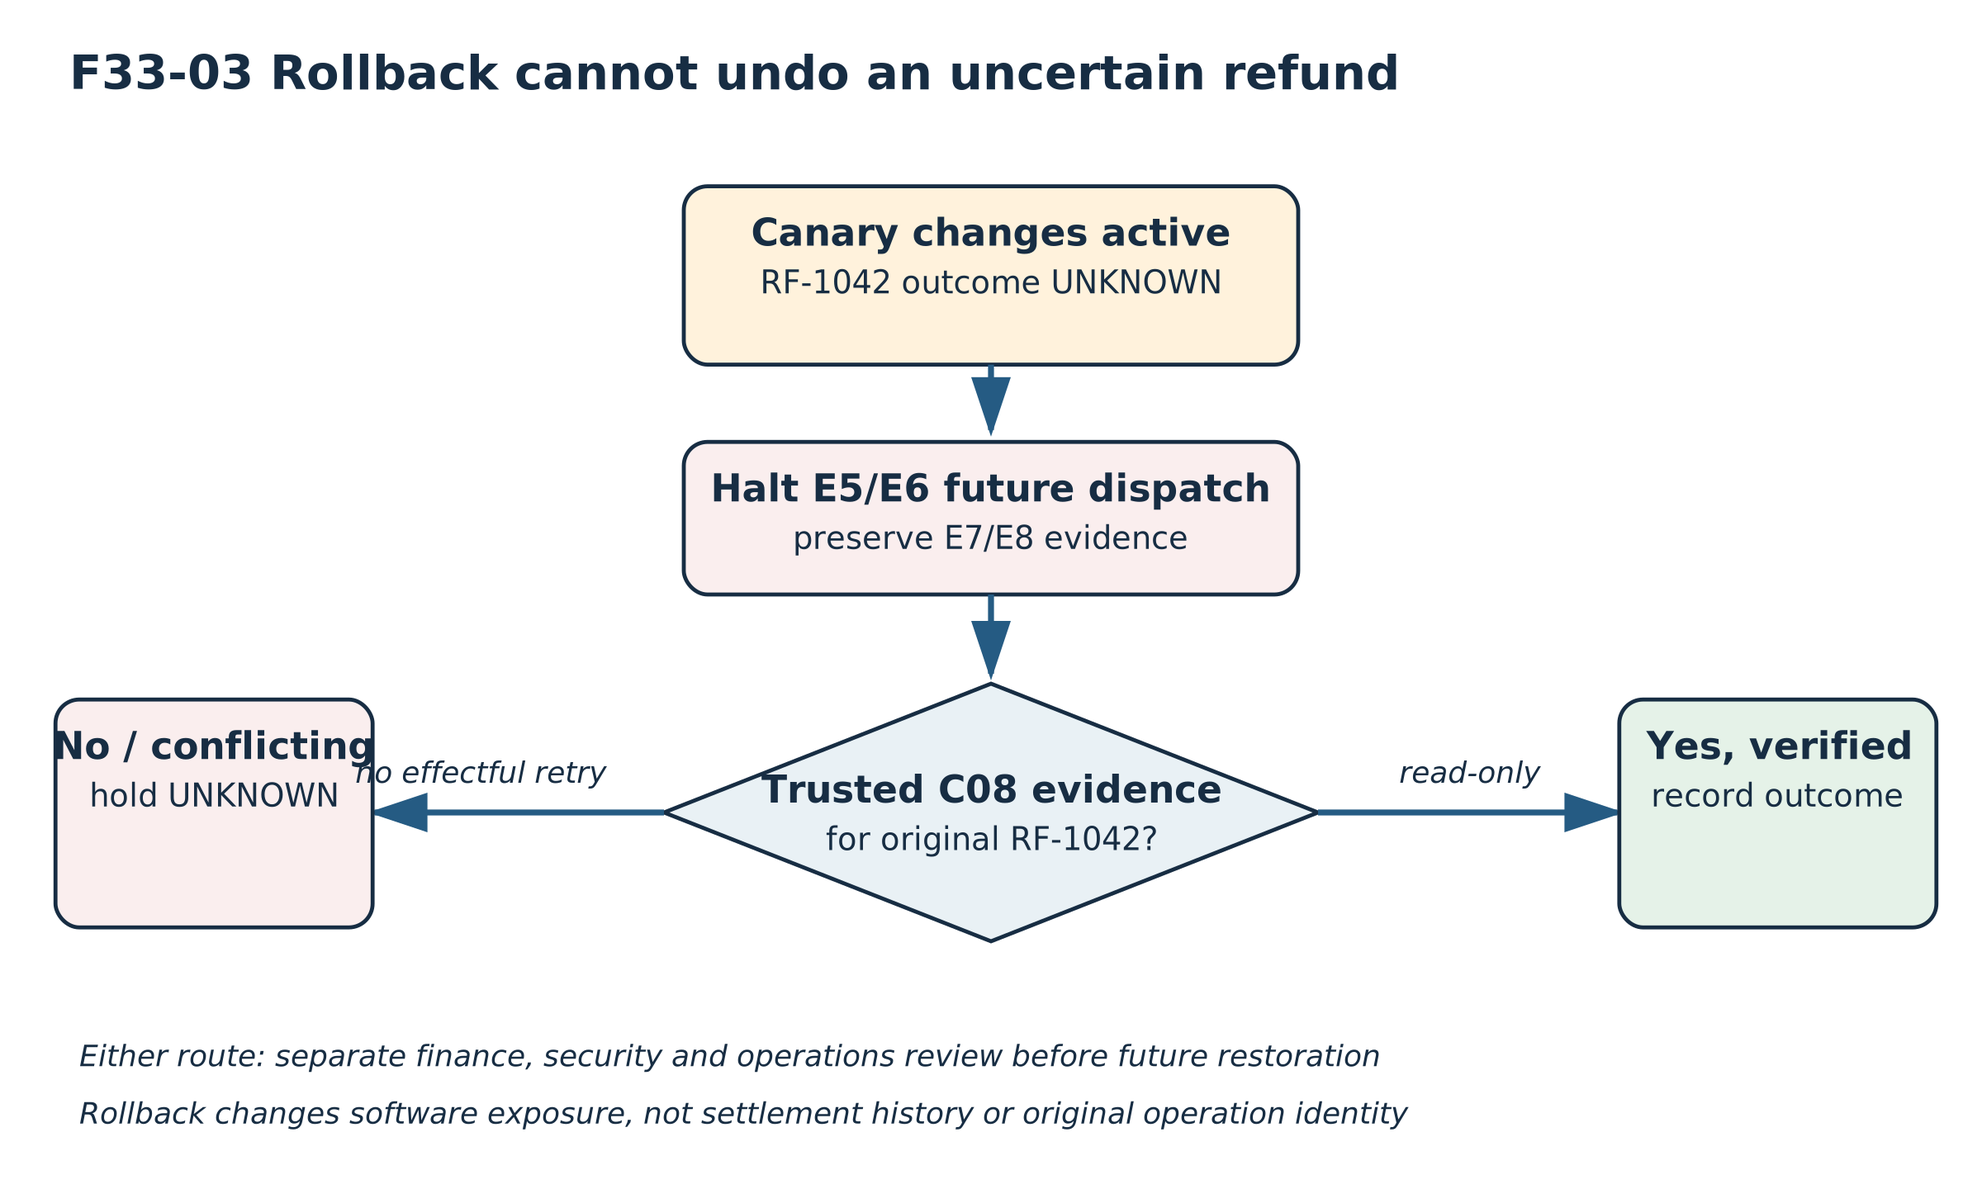
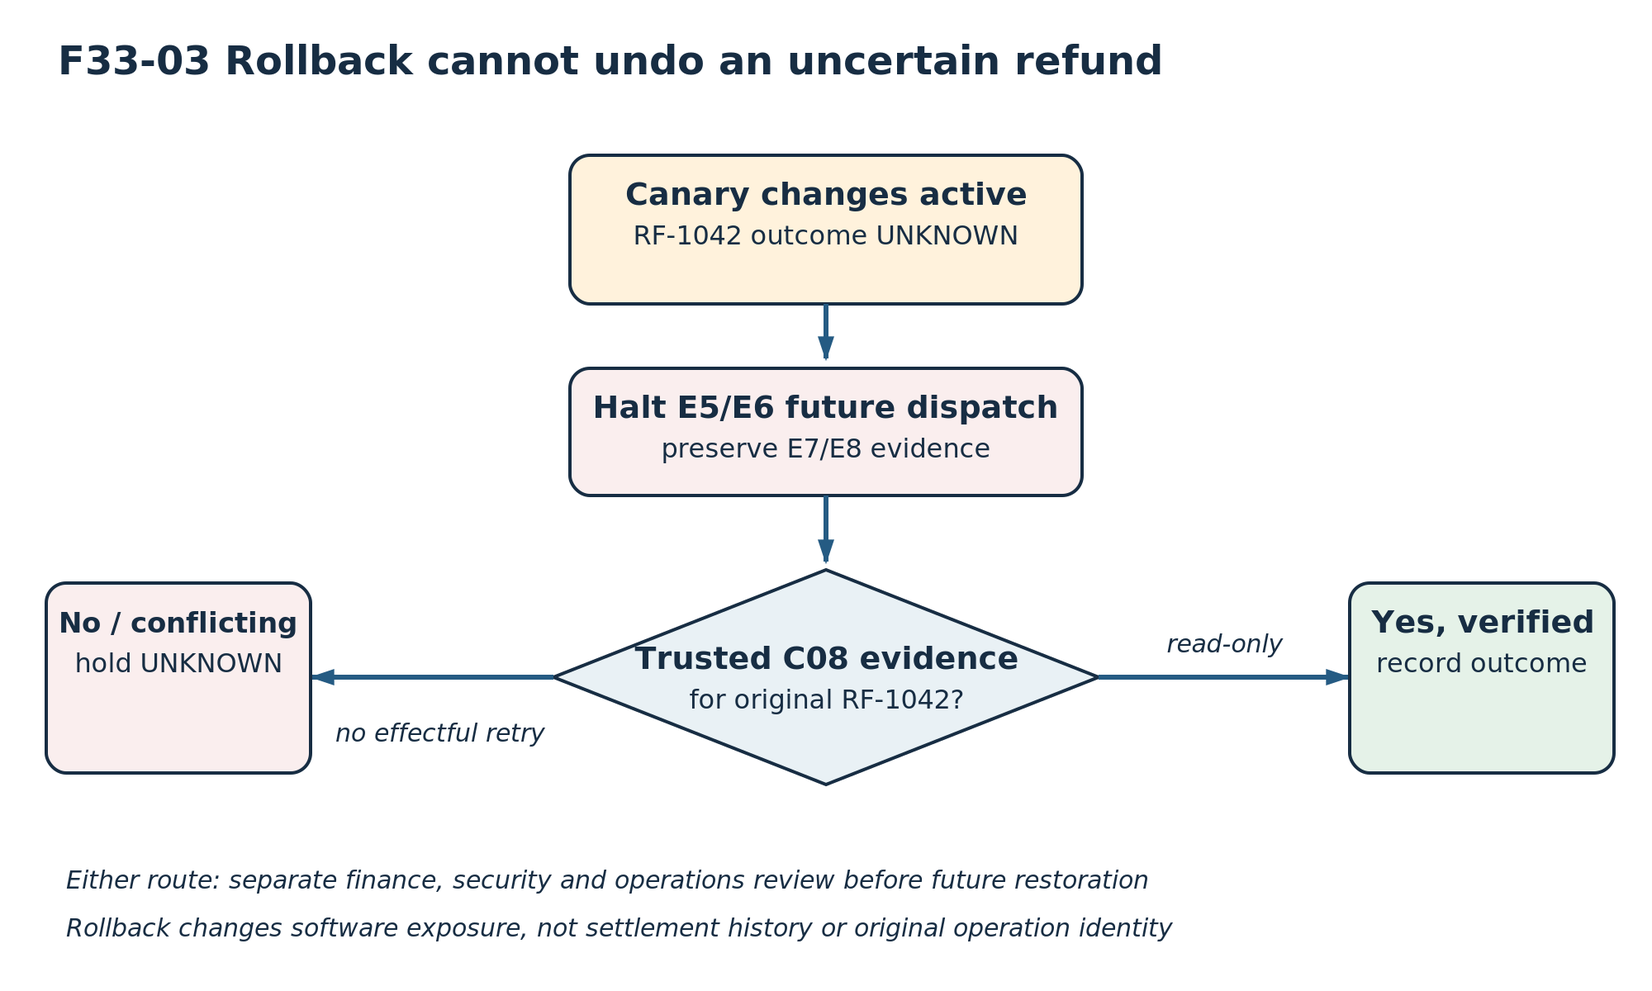
docs: finalize book wording and editorial cleanup (#56)

diff --git a/manuscript/frontmatter/how-to-use-this-book.md b/manuscript/frontmatter/how-to-use-this-book.md
@@ -11,7 +11,7 @@ The book is a continuous engineering argument and a practical reference. Read Pa
 
 **The architecture notation.** Later chapters introduce nine logical enterprise responsibilities (E1–E9) and nine cross-domain contracts (C01–C09). The responsibilities say what must be done; the contracts define handoff obligations, data, controls, and evidence. Chapter 8 §§8.3–8.4 explains both; the Appendix supplies a reader-oriented C01–C09 reference. The book gives readable responsibility and contract definitions in Chapter 8 and the Appendix; no external architecture file is required to follow the discussion. Chapter 35 provides the reader-facing schemas and reference artifacts needed to apply the contracts. The compact appendix map is a navigation aid, not an implementation schema. Identifiers support traceability, not permission or proof. They do not imply nine separate services or require multiple agents.
 
-**Reading each chapter independently.** The first substantive appearance of Design A (deterministic), Design B (bounded AI advice and independent review), or Design C (optional bounded agent investigation) should say what changes and what does not: trusted execution remains independent. E1–E9 are responsibilities, C01–C09 are contracts; the compact definitions in Chapter 8 and the architectural appendix are navigational, not new authorities. Less-common acronyms are expanded locally on first use; code names identify a repository-relative module and a corresponding test rather than an undocumented implementation promise.
+**Reading each chapter independently.** Designs A, B, and C represent different allocations of investigation and decision-making responsibility. Design A is deterministic; Design B uses bounded AI advice with independent review; and Design C optionally introduces bounded agent investigation. Across all three, consequential execution remains independently controlled. E1–E9 are responsibilities, C01–C09 are contracts; the compact definitions in Chapter 8 and the architectural appendix are navigational, not new authorities. Less-common acronyms are expanded locally on first use; code names identify a repository-relative module and a corresponding test rather than an undocumented implementation promise.
 
 **The case and exercises.** The $500 refund is an illustrative running case, not a provider-specific production design. Early exercises ask readers to explain requirements and tradeoffs. Later work asks for schemas, code, policy checks, tests, incident evidence, and defended release decisions. Where a contract depends on a provider, verify its actual guarantees.
 
@@ -20,7 +20,7 @@ The book is a continuous engineering argument and a practical reference. Read Pa
 **Reader pathways.** Developing engineers should complete the exercises in sequence. Architects should focus on responsibility boundaries and alternative decisions. Security and privacy reviewers should trace authority, data use, and human recourse. Operations teams should emphasize unknown outcomes, failure injection, reconciliation, serviceability, and cost of ownership. Business leaders should ask what measurable value is created and which residual risks are explicitly accepted.
 
 
-**Professional review perspectives.** Where an architecture decision warrants scrutiny, the book asks how an implementing engineer, enterprise architect, security/assurance reviewer, SRE/operations owner, and business owner would challenge its claims. The relevant perspectives vary by decision; they are not new E-domains, a prescribed review board, or a substitute for formal authority. Student exercises train readers to perform these professional reviews, while teaching-quality evaluations remain outside the reader-facing method.
+**Professional review perspectives.** Where an architecture decision warrants scrutiny, the book asks how an implementing engineer, enterprise architect, security/assurance reviewer, SRE/operations owner, and business owner would challenge its claims. The relevant perspectives vary by decision; they are not new E-domains, a prescribed review board, or a substitute for formal authority. The exercises develop the ability to challenge engineering decisions from these complementary professional perspectives.
 
 ## The companion reference implementation
 

diff --git a/manuscript/backmatter/appendices.md b/manuscript/backmatter/appendices.md
@@ -36,7 +36,7 @@ The reference architecture separates logical responsibilities from trust boundar
 
 ## Appendix B — Companion implementation guide
 
-The authoritative companion tree is `examples/refund-reference-system/` in the project repository, https://github.com/etis-framework/etis-agentic-ai-book. Start with `examples/refund-reference-system/README.md`, then the guided source-and-negative-test lab in `LEARNING_PATH.md`, and the implementation/limitation crosswalk in `IMPLEMENTATION_EVIDENCE_MAP.md`. Paths in the tables are **relative to that companion tree**, not to this manuscript file. These are repository-relative file identifiers suitable for this printed edition; a fixed public release tag is provided.
+The authoritative companion tree is `examples/refund-reference-system/` in the project repository, https://github.com/etis-framework/etis-agentic-ai-book. Start with `examples/refund-reference-system/README.md`, then the guided source-and-negative-test lab in `LEARNING_PATH.md`, and the implementation/limitation crosswalk in `IMPLEMENTATION_EVIDENCE_MAP.md`. All paths in the following tables are relative to `examples/refund-reference-system/` in the official ETIS book repository. For reproducible exercises, consult the repository's edition-specific release information rather than assuming that the latest development revision matches the printed examples.
 
 **Progressive reference implementation (Chapters 22–27)**
 
@@ -123,7 +123,7 @@ An absent signal is not evidence of no effect. Local hash checks are not protect
 
 **Lifecycle investment and retirement (Chapter 34).** Cost per acceptable completed workflow includes review, assurance, monitoring, recovery, staffing, residual exposure and exit. The hypothetical comparison in Table 34.2 is not companion telemetry or a prediction of deployed benefits. Missing E5 enforcement or authoritative E8 evidence is a hard gate, not a risk price. Figure 34.3 and Table 34.4 prescribe accountable decisions, not an autonomous deployment controller.
 
-**Release authorization (Chapter 33).** A passing local regression is not release approval. Tables 33.1–33.3 identify proposed manifest fields, release-stage gates and exact fixture evidence, separated from external implementation and production proof. Figures 33.1–33.3 distinguish candidate evidence from E5 authority and software rollback from irreversible/uncertain provider effects. Runbook 33-A is a manuscript-local operating procedure, not software.
+**Release authorization (Chapter 33).** A passing local regression is not release approval. Tables 33.1–33.3 identify proposed manifest fields, release-stage gates and exact fixture evidence, separated from external implementation and production proof. Figures 33.1–33.3 distinguish candidate evidence from E5 authority and software rollback from irreversible/uncertain provider effects. Runbook 33-A provides an illustrative operating procedure; the companion implementation does not automate it.
 
 
 **Chapter 35 — Contract lookup and executable falsifiers (no new build)**

diff --git a/manuscript/part-05-reliability-security/ch31-verification-evaluation-and-evidence/index.md b/manuscript/part-05-reliability-security/ch31-verification-evaluation-and-evidence/index.md
@@ -99,7 +99,7 @@ The release record must specify artifact version, test results and exceptions, n
 
 Start at `examples/refund-reference-system/assurance/README.md`, then run `python3 -m unittest discover -s examples/refund-reference-system/assurance -p 'test_*.py' -v` to execute `assurance/test_collect.py`. The companion `assurance/collect.py` registry identifies exact runnable tests in `security/test_adversarial_cases.py` (valid-token E5 denial), `reliability/test_recovery_cases.py` (missing/wrong proof), `build4/test_provider.py` (single operation and no blind replay), `build5/test_coordination.py` (local epochs), and `operations/test_incident.py` (read-only incidents). Run its example command from the repository root to produce a local JSON evidence bundle. Evidence metadata and this chapter's falsifier matrix point to source methods, not to invented generalized guarantees.
 
-**Professional review perspectives.** The implementing engineer audits registries, test names and non-effect assertions. The enterprise architect maps every unverified E5/E9 control to its actual deployment boundary. A falsification exercise establishes precisely which claim fails and which conclusions remain unsupported. The security reviewer stages the valid-token compromised-investigator attempt and demands independent grant custody evidence. The SRE/operator evaluates collector loss, ambiguous provider outcomes and restoration rehearsals. The business owner decides what unresolved refund exposure is acceptable and who is empowered to stop rollout. These are reader questions, not an assertion of independent publication certification.
+**Professional review perspectives.** The implementing engineer audits registries, test names and non-effect assertions. The enterprise architect maps every unverified E5/E9 control to its actual deployment boundary. A falsification exercise establishes precisely which claim fails and which conclusions remain unsupported. The security reviewer stages the valid-token compromised-investigator attempt and demands independent grant custody evidence. The SRE/operator evaluates collector loss, ambiguous provider outcomes and restoration rehearsals. The business owner decides what unresolved refund exposure is acceptable and who is empowered to stop rollout. These professional reviews help assess the strength and limitations of the available evidence; they do not constitute independent production certification.
 
 **Limitations:** Tests run against local files and a simulated provider. Build 5 E2 epochs are not enforced by Build 4 E5. The collector measures subprocess outcomes, not real payment settlement, independent production identity, protected E9 evidence, complete model drift, red-team coverage or operator competence. A replayable test log is valuable engineering evidence; it is not an unconditional certificate of trustworthy agentic behavior.
 

diff --git a/manuscript/part-07-reference/ch36-exercises-reviews-and-adoption-roadmap/index.md b/manuscript/part-07-reference/ch36-exercises-reviews-and-adoption-roadmap/index.md
@@ -66,7 +66,7 @@ A reviewer must reject an artifact if it merely repeats a policy adjective such 
 
 **Task.** Assemble a release review: claim, evidence, unresolved limit, risk owner, stop trigger and restoration authority. Distinguish *deploying the learning fixture*, *running a constrained enterprise pilot* and *activating live financial effects*. Define the observable event that would suspend new financial work, the state that must be reconciled before resumption, and who signs the decision. Use the release manifest in Chapter 33 as a **proposed production artifact**, not a Python feature already present.
 
-**Defensible answer criteria.** The local fixture may be suitable for training and preproduction assurance. It is not sufficient evidence for live money movement. The valid-token denial is positive evidence for one local control, while independent credentials, external provider reconciliation, custody, current-owner enforcement, and organizational authorization remain external prerequisites. Rollback may stop new routing, but cannot roll back a completed refund or safely replay an unknown one. Runbook 30-A covers incident response, Runbook 32-A governance suspension/restoration, and Runbook 33-A release intervention; their identifiers are chapter-local editorial labels, not executable files.
+**Defensible answer criteria.** The local fixture may be suitable for training and preproduction assurance. It is not sufficient evidence for live money movement. The valid-token denial is positive evidence for one local control, while independent credentials, external provider reconciliation, custody, current-owner enforcement, and organizational authorization remain external prerequisites. Rollback may stop new routing, but cannot roll back a completed refund or safely replay an unknown one. Runbook 30-A covers incident response, Runbook 32-A governance suspension and restoration, and Runbook 33-A release intervention. These are illustrative operating procedures, not executable automation.
 
 ## 36.6 Exercise E: test the economics without pricing away safety
 

diff --git a/manuscript/part-05-reliability-security/ch29-security-and-adversarial-agent-behavior/index.md b/manuscript/part-05-reliability-security/ch29-security-and-adversarial-agent-behavior/index.md
@@ -150,4 +150,4 @@ The common conclusion is constrained: **the current fixture demonstrates indepen
 
 **Chapter synthesis.** A goal-directed agent can be compromised without the trusted consequential boundary being compromised. Security depends on enforced authority, not compliant behavior or convincing prose. A valid token, a plausible proposal, and even an E2 lease do not authorize RF-1042. Chapter 30 will turn attempted abuse and uncertain results into operational incident responsibilities; Chapter 31 will evaluate the evidence required to trust the entire chain.
 
-**Sources and evidence limits.** This chapter applies established least-privilege, separation-of-duties, secure-development and AI risk-management concepts from NIST SP 800-53 Rev. 5, NIST SP 800-218, NIST AI RMF 1.0, and OWASP agent-security guidance. The reference-architecture mapping, CASE-204 scenario, attack harness and test dispositions are ETIS original engineering artifacts. Specific source sections, standards editions, provider controls and external citations remain subject to independent publication verification; the mock does not satisfy those standards by default.
+**Sources and evidence limits.** This chapter applies established least-privilege, separation-of-duties, secure-development and AI risk-management concepts from NIST SP 800-53 Rev. 5, NIST SP 800-218, NIST AI RMF 1.0, and OWASP agent-security guidance. The reference-architecture mapping, CASE-204 scenario, attack harness and test dispositions are ETIS original engineering artifacts. The cited standards and security guidance inform the principles discussed here; they do not certify the CASE-204 reference implementation or establish the behavior of a real payment provider. Production adoption requires independent assessment of the applicable controls, provider contracts, and deployed environment.

diff --git a/manuscript/part-03-patterns/ch20-state-memory-and-knowledge-design/index.md b/manuscript/part-03-patterns/ch20-state-memory-and-knowledge-design/index.md
@@ -104,4 +104,4 @@ A persistent memory record may outlive the worker that created it, and its prove
 
 **Review standard:** Strong responses distinguish information relevance from business authority, derived memory from E7 ownership, a local observation from E8 truth, and proposal correlation from `RF-1042`. They select the minimum necessary persistence and define failure behavior that remains correct without trusting model recollection.
 
-**Sources and further reading.** Kleppmann (2017) on consistency, data ownership, and distributed failure; Gray and Reuter (1992) on transaction/durable-state foundations; Lewis et al. (2020) on RAG; Bass, Clements, and Kazman (2021) on architecture tradeoffs; NIST AI RMF (2023) and Rose et al. (2020) on governance and access controls. These sources do not validate a particular ETIS memory schema, payment-provider behavior, or operational deployment. The classification, diagrams, and CASE-204 decision are original ETIS engineering synthesis; exact edition/page review remains open.
+**Sources and further reading.** Kleppmann (2017) on consistency, data ownership, and distributed failure; Gray and Reuter (1992) on transaction/durable-state foundations; Lewis et al. (2020) on RAG; Bass, Clements, and Kazman (2021) on architecture tradeoffs; NIST AI RMF (2023) and Rose et al. (2020) on governance and access controls. These sources do not validate a particular ETIS memory schema, payment-provider behavior, or operational deployment. The classification, diagrams, and CASE-204 design decisions are original ETIS engineering synthesis, informed by the cited research and engineering foundations. The cited sources do not independently validate the proposed memory architecture or its operational guarantees.

diff --git a/manuscript/part-06-governance-operations/ch34-economics-risk-and-lifecycle-decisions/index.md b/manuscript/part-06-governance-operations/ch34-economics-risk-and-lifecycle-decisions/index.md
@@ -104,7 +104,7 @@ Lifecycle governance is a repeated decision with explicit observation windows, o
 | Restrict or pause | E5 anomalies, missing telemetry, unresolved effects, policy drift or rising backlog | Incident command and designated control owners |
 | Replace or retire | Comparable economics, migration plan, retention, credential revocation and open-operation disposition | Risk, finance, data owner and operations |
 
-Figure 34.3 is a decision diagram, not an implemented auto-scaling policy. In particular, **no score may authorize release when required control evidence is missing**. Chapter 32 allocates decision rights; Chapter 33 requires a controlled release candidate and safe halt; Chapter 31 states what the verification evidence actually covers. Runbooks 30-A, 32-A and 33-A remain manuscript procedures, not deployable automations.
+Figure 34.3 is a decision diagram, not an implemented auto-scaling policy. In particular, **no score may authorize release when required control evidence is missing**. Chapter 32 allocates decision rights; Chapter 33 requires a controlled release candidate and safe halt; Chapter 31 states what the verification evidence actually covers. Runbooks 30-A, 32-A and 33-A describe illustrative operational procedures; they are not executable automation supplied by the companion implementation.
 
 ![](assets/shared-figures/rendered/F34-03.png)
 

diff --git a/manuscript/part-06-governance-operations/ch33-release-engineering-and-operational-readiness/index.md b/manuscript/part-06-governance-operations/ch33-release-engineering-and-operational-readiness/index.md
@@ -85,7 +85,7 @@ At the same time, pause new effectful cohorts at E5/E6, protect E7 state and E8 
 
 ## 33.7 Runbook 33-A — Controlled deployment halt and recovery
 
-**Runbook 33-A** is the first *manuscript* runbook in this chapter, following the chapter-local numbering introduced by Runbooks 30-A and 32-A; it is not a file in the companion tree or a deployable automation.
+**Runbook 33-A** describes an illustrative procedure for controlled deployment halt and recovery. It defines operational responsibilities and decision points rather than executable automation. Organizations must adapt the procedure to their own deployment architecture, incident authority, and recovery capabilities.
 
 1. **Declare the change and scope.** Release engineering records immutable candidate identity, active cohort, configuration/policy versions, evidence coverage, authorization owners, and a reversible *future-traffic* routing plan. Finance confirms E5 case approval is unchanged by deployment authority.
 2. **Measure and challenge.** An independent on-call observer checks denied and allowed E5 verdicts, E2 epoch anomalies, C08 availability, E7/E8 discrepancies, missing audit events, queue age and human review saturation. Separate uncertain effects from ordinary application latency.

diff --git a/manuscript/part-01-foundations/ch02-historical-foundations/index.md b/manuscript/part-01-foundations/ch02-historical-foundations/index.md
@@ -243,4 +243,4 @@ Imagine a vendor demonstrating an agent that reads a complaint, finds the order,
 
 ## Sources and further reading
 
-The consolidated bibliography now identifies foundational publications and current governance and agentic-AI research. The source register maps each to the sections it supports and distinguishes bibliographic identification from claim-level verification. No source should be treated as proving an implementation guarantee without examining its scope and assumptions.
+The bibliography identifies foundational research, standards, and current guidance relevant to the engineering disciplines discussed in this chapter. These sources provide historical and technical foundations; they do not independently establish the correctness of a particular implementation. Provider-specific guarantees and architectural claims must be evaluated against the applicable contracts, assumptions, and evidence.

diff --git a/manuscript/part-01-foundations/ch03-enterprise-processes-goals-and-bounded-autonomy/index.md b/manuscript/part-01-foundations/ch03-enterprise-processes-goals-and-bounded-autonomy/index.md
@@ -108,7 +108,7 @@ For example, a service agent may be permitted to **investigate** case `CASE-204`
 
 ![Figure 3.3 — The delegation envelope constrains proposals; trusted execution enforces authority.](assets/shared-figures/rendered/F03-03.png){#fig:f03-03 width=5.75in}
 
-**Illustrative delegation contract (conceptual, not executable production policy).** The following fixed-width example is intended to be read as structured configuration; each key is a separate obligation. In the printed edition, long values must wrap without truncation:
+**Illustrative delegation contract (conceptual, not executable production policy).** The following structured example identifies the constraints governing the delegated investigation. Each field represents an obligation that must be validated and enforced by trusted system components:
 
 ```yaml
 case_id: CASE-204
